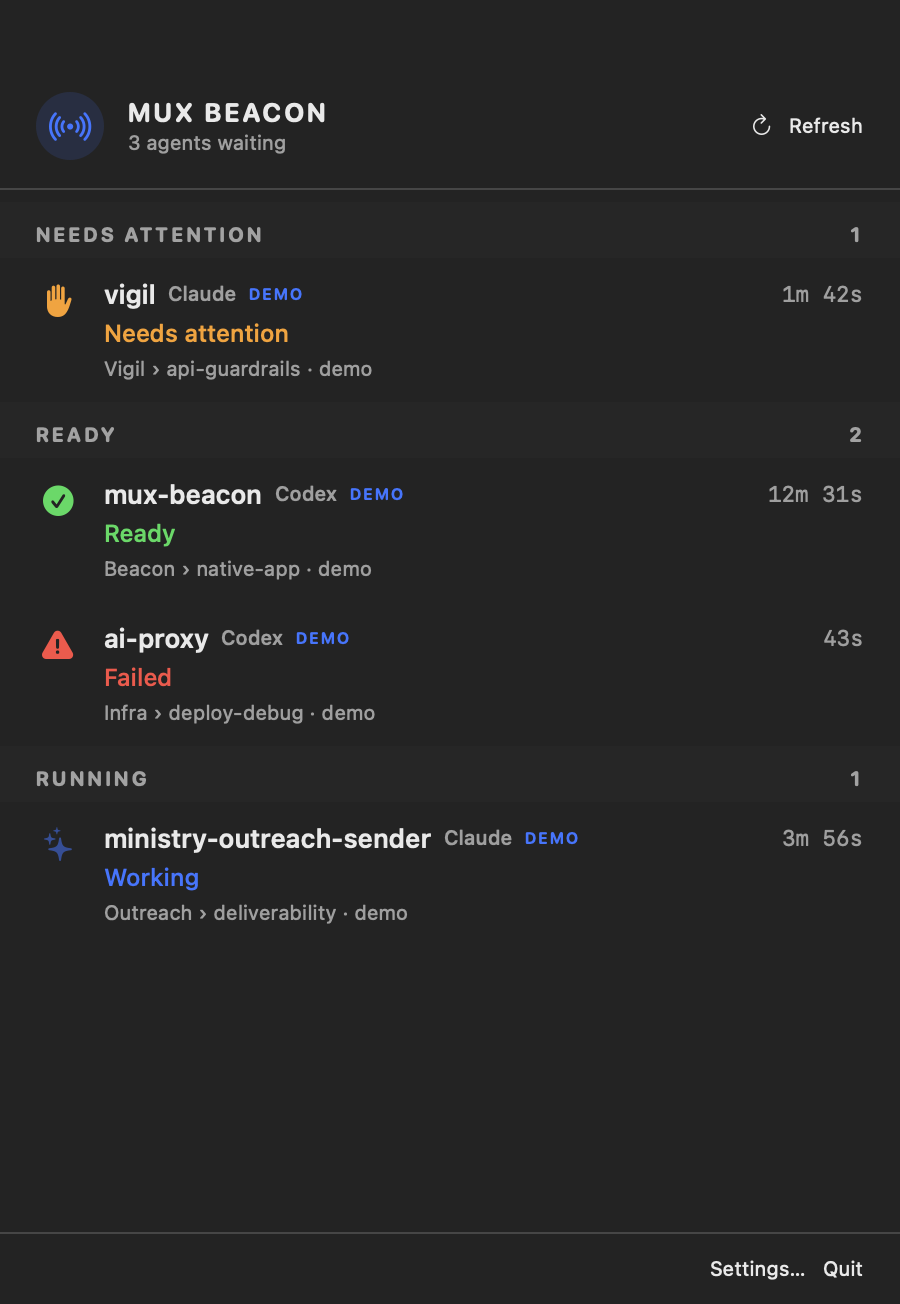
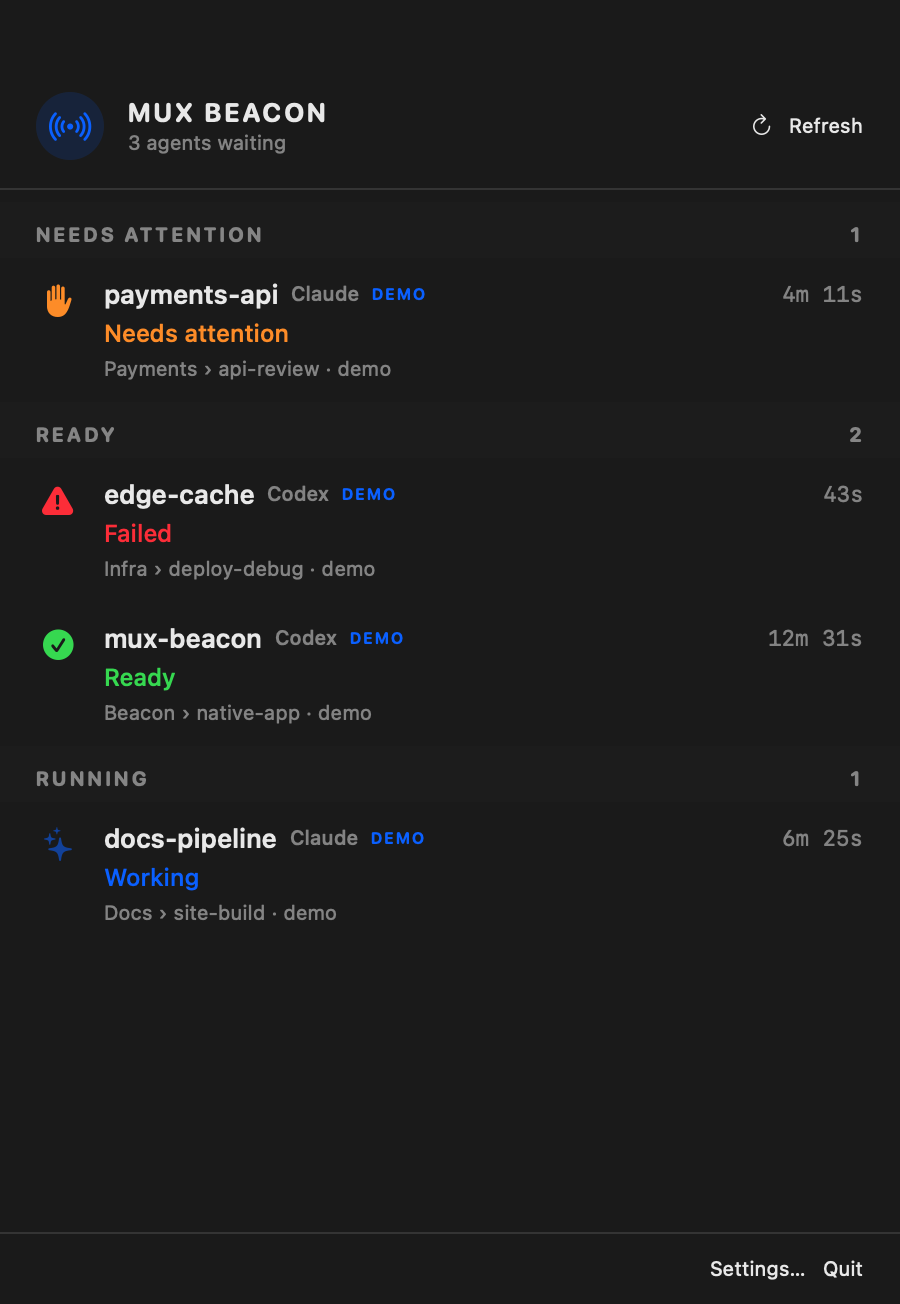
Anonymize demo data and prepare 0.2.0 release
- Replace real project names in the demo seeder and self-test fixtures
  with fictional ones, and regenerate both documentation screenshots
  from a scratch data home.
- Capture screenshots at a fixed 2x scale and fix the settings capture's
  transparent titlebar band and cut-off form.
- Drain subprocess pipes while commands run instead of after exit.
- Stop double percent-decoding deep-link event IDs.
- Report the CLI version from a single BeaconVersion constant.
- Document the unsigned-release Gatekeeper caveat and roadmap, clarify
  the dry-run install step, and date the 0.2.0 changelog entry.

diff --git a/Sources/MuxBeaconApp/AppDelegate.swift b/Sources/MuxBeaconApp/AppDelegate.swift
@@ -96,7 +96,7 @@ final class AppDelegate: NSObject, NSApplicationDelegate, NSWindowDelegate, UNUs
         }
         let model = BeaconAppModel.shared
         let settingsMode = ProcessInfo.processInfo.environment["MUX_BEACON_SCREENSHOT_VIEW"] == "settings"
-        let size = settingsMode ? NSSize(width: 520, height: 520) : NSSize(width: 450, height: 620)
+        let size = settingsMode ? NSSize(width: 540, height: 960) : NSSize(width: 450, height: 620)
         let rootView = settingsMode
             ? AnyView(BeaconSettingsView().frame(width: size.width, height: size.height))
             : AnyView(BeaconPanel(
@@ -106,9 +106,13 @@ final class AppDelegate: NSObject, NSApplicationDelegate, NSWindowDelegate, UNUs
                 openSettings: { [weak self] in self?.openSettingsWindow() }
             ).frame(width: size.width, height: size.height))
         let controller = NSHostingController(rootView: rootView)
+        // The settings form paints no material of its own, so the under-titlebar
+        // region of a full-size content view captures as a transparent band.
+        var styleMask: NSWindow.StyleMask = [.titled, .closable, .miniaturizable, .resizable]
+        if !settingsMode { styleMask.insert(.fullSizeContentView) }
         let window = NSWindow(
             contentRect: NSRect(origin: .zero, size: size),
-            styleMask: [.titled, .closable, .miniaturizable, .resizable, .fullSizeContentView],
+            styleMask: styleMask,
             backing: .buffered,
             defer: false
         )
@@ -158,7 +162,22 @@ final class AppDelegate: NSObject, NSApplicationDelegate, NSWindowDelegate, UNUs
     private func capture(window: NSWindow, outputPath: String) {
         guard let view = window.contentView else { return }
         let bounds = view.bounds
-        guard let representation = view.bitmapImageRepForCachingDisplay(in: bounds) else { return }
+        // Render at a fixed 2x so screenshots are identical regardless of the
+        // backing scale of whichever screen the window landed on.
+        let scale: CGFloat = 2
+        guard let representation = NSBitmapImageRep(
+            bitmapDataPlanes: nil,
+            pixelsWide: Int(bounds.width * scale),
+            pixelsHigh: Int(bounds.height * scale),
+            bitsPerSample: 8,
+            samplesPerPixel: 4,
+            hasAlpha: true,
+            isPlanar: false,
+            colorSpaceName: .calibratedRGB,
+            bytesPerRow: 0,
+            bitsPerPixel: 0
+        ) else { return }
+        representation.size = bounds.size
         view.cacheDisplay(in: bounds, to: representation)
         guard let data = representation.representation(using: .png, properties: [:]) else { return }
         do {
@@ -183,8 +202,8 @@ final class AppDelegate: NSObject, NSApplicationDelegate, NSWindowDelegate, UNUs
             return
         }
         guard url.host == "event" else { return }
+        // URL.pathComponents already percent-decodes; decoding again corrupts IDs containing "%".
         let eventID = url.pathComponents.dropFirst().joined(separator: "/")
-            .removingPercentEncoding ?? ""
         guard !eventID.isEmpty else { return }
         do {
             let store = EventStore()

diff --git a/Sources/MuxBeaconCore/SystemIntegration.swift b/Sources/MuxBeaconCore/SystemIntegration.swift
@@ -30,6 +30,23 @@ public enum ProcessRunner {
         let stderr = Pipe()
         process.standardOutput = stdout
         process.standardError = stderr
+
+        // Drain both pipes while the child runs; reading after exit deadlocks
+        // once a child fills the 64 KB pipe buffer.
+        var stdoutData = Data()
+        var stderrData = Data()
+        let readers = DispatchGroup()
+        readers.enter()
+        DispatchQueue.global().async {
+            stdoutData = stdout.fileHandleForReading.readDataToEndOfFile()
+            readers.leave()
+        }
+        readers.enter()
+        DispatchQueue.global().async {
+            stderrData = stderr.fileHandleForReading.readDataToEndOfFile()
+            readers.leave()
+        }
+
         try process.run()
         if let timeout {
             let deadline = Date().addingTimeInterval(timeout)
@@ -37,16 +54,18 @@ public enum ProcessRunner {
             if process.isRunning {
                 process.terminate()
                 process.waitUntilExit()
+                readers.wait()
                 throw ProcessRunnerError.timedOut(executable)
             }
         } else {
             process.waitUntilExit()
         }
+        readers.wait()
         return CommandResult(
             status: process.terminationStatus,
-            stdout: String(decoding: stdout.fileHandleForReading.readDataToEndOfFile(), as: UTF8.self)
+            stdout: String(decoding: stdoutData, as: UTF8.self)
                 .trimmingCharacters(in: .whitespacesAndNewlines),
-            stderr: String(decoding: stderr.fileHandleForReading.readDataToEndOfFile(), as: UTF8.self)
+            stderr: String(decoding: stderrData, as: UTF8.self)
                 .trimmingCharacters(in: .whitespacesAndNewlines)
         )
     }

diff --git a/Sources/MuxBeaconSelfTest/main.swift b/Sources/MuxBeaconSelfTest/main.swift
@@ -68,18 +68,18 @@ struct MuxBeaconSelfTest {
 
     private static func testRouteLabel() throws {
         let tmux = TmuxTarget(
-            socketPath: "/tmp/tmux", sessionID: "$1", sessionName: "Vigil",
-            windowID: "@7", windowIndex: 7, windowName: "AINotifier",
+            socketPath: "/tmp/tmux", sessionID: "$1", sessionName: "Atlas",
+            windowID: "@7", windowIndex: 7, windowName: "agents",
             paneID: "%2", paneIndex: 2, paneTitle: "agent", panePath: "/tmp"
         )
         let event = AgentEvent(
             id: "route", source: .codex, sessionID: "session", state: .ready,
             hookEventName: "Stop", cwd: "/tmp", projectName: "project", tmux: tmux
         )
-        try expect(event.routeLabel == "Vigil › AINotifier" && !event.routeLabel.contains("pane"))
+        try expect(event.routeLabel == "Atlas › agents" && !event.routeLabel.contains("pane"))
         var demo = event
         demo.isDemo = true
-        try expect(demo.routeLabel == "Vigil › AINotifier · demo")
+        try expect(demo.routeLabel == "Atlas › agents · demo")
         do {
             try TargetRouter.jump(to: demo)
             throw SelfTestError.failedExpectation
@@ -133,7 +133,7 @@ struct MuxBeaconSelfTest {
         let (directory, store) = try temporaryStore()
         defer { try? FileManager.default.removeItem(at: directory) }
         let target = TmuxTarget(
-            socketPath: "/tmp/tmux", sessionID: "$1", sessionName: "Vigil",
+            socketPath: "/tmp/tmux", sessionID: "$1", sessionName: "Atlas",
             windowID: "@1", windowIndex: 1, windowName: "agents",
             paneID: "%1", paneIndex: 0, paneTitle: "agent", panePath: "/tmp"
         )

diff --git a/Sources/MuxBeaconCore/Preferences.swift b/Sources/MuxBeaconCore/Preferences.swift
@@ -73,10 +73,10 @@ public enum DemoSeeder {
     public static func seed(store: EventStore, now: Date = Date()) throws -> [AgentEvent] {
         try store.deleteDemoEvents()
         let samples: [(AgentSource, AgentState, String, TimeInterval, String, Int, String, Int)] = [
-            (.claude, .needsAttention, "vigil", 94, "Vigil", 3, "api-guardrails", 1),
+            (.claude, .needsAttention, "payments-api", 94, "Payments", 3, "api-review", 1),
             (.codex, .ready, "mux-beacon", 751, "Beacon", 1, "native-app", 0),
-            (.claude, .working, "ministry-outreach-sender", 228, "Outreach", 7, "deliverability", 0),
-            (.codex, .failed, "ai-proxy", 43, "Infra", 2, "deploy-debug", 2),
+            (.claude, .working, "docs-pipeline", 228, "Docs", 7, "site-build", 0),
+            (.codex, .failed, "edge-cache", 43, "Infra", 2, "deploy-debug", 2),
         ]
         return try samples.enumerated().map { index, sample in
             let started = now.addingTimeInterval(-sample.3)

diff --git a/Sources/MuxBeaconApp/BeaconSettingsView.swift b/Sources/MuxBeaconApp/BeaconSettingsView.swift
@@ -68,7 +68,8 @@ struct BeaconSettingsView: View {
         }
         .formStyle(.grouped)
         .padding()
-        .frame(width: 520, height: 520)
+        .frame(minWidth: 500, minHeight: 500)
+        .background(Color(nsColor: .windowBackgroundColor))
         .alert("Could not update login item", isPresented: Binding(
             get: { launchError != nil },
             set: { if !$0 { launchError = nil } }

diff --git a/Sources/MuxBeaconCLI/main.swift b/Sources/MuxBeaconCLI/main.swift
@@ -49,7 +49,7 @@ struct MuxBeaconCLI {
             case "help", "--help", "-h":
                 printHelp()
             case "version", "--version", "-v":
-                print("mux-beacon 0.2.0")
+                print("mux-beacon \(BeaconVersion.current)")
             default:
                 throw CLIError.usage("Unknown command: \(command)")
             }

diff --git a/Sources/MuxBeaconCore/Models.swift b/Sources/MuxBeaconCore/Models.swift
@@ -1,5 +1,11 @@
 import Foundation
 
+/// Single source of truth for the CLI-reported version.
+/// Keep Packaging/Info.plist's CFBundleShortVersionString and CHANGELOG.md in sync.
+public enum BeaconVersion {
+    public static let current = "0.2.0"
+}
+
 public enum AgentSource: String, Codable, CaseIterable, Sendable {
     case claude
     case codex

diff --git a/README.md b/README.md
@@ -28,7 +28,7 @@ prompt submitted → working → ready / failed
 
 - macOS 13 or newer
 - tmux 3.2 or newer
-- Claude Code with hooks, or Codex CLI with hooks and its completion callback
+- A recent Claude Code with lifecycle hooks (including `StopFailure`), or Codex CLI with hooks and its completion callback
 - Ghostty 1.3+ for exact window/tab focus; other terminals still receive the inbox and tmux metadata
 
 ## Install locally
@@ -37,13 +37,13 @@ prompt submitted → working → ready / failed
 git clone https://github.com/Lukeesec/mux-beacon.git
 cd mux-beacon
 ./scripts/install-local.sh
-mux-beacon install
-mux-beacon install --apply
+mux-beacon install          # dry run: preview the hook changes
+mux-beacon install --apply  # write them
 ```
 
 The app installs into `/Applications` when writable, otherwise `~/Applications`, and registers with Launch Services. Finder can open it directly; `mux-beacon gui` is the reliable launcher for local ad-hoc builds that Spotlight has not indexed yet.
 
-The first `install` is a dry run. Applying the installation:
+Applying the installation:
 
 - adds owned handlers to `~/.claude/settings.json`;
 - adds owned handlers to `~/.codex/hooks.json`;
@@ -174,6 +174,10 @@ The inbox checks target health every 30 seconds and whenever **Refresh** is clic
 
 See [Architecture](docs/ARCHITECTURE.md), [Development](docs/DEVELOPMENT.md), and [Troubleshooting](docs/TROUBLESHOOTING.md).
 
+## Prebuilt releases
+
+Tagged releases attach an app zip built by CI. It is ad-hoc signed and not notarized, so macOS blocks the first launch of a downloaded copy: approve it under **System Settings → Privacy & Security → Open Anyway**, or build from source as shown above (local builds are not quarantined).
+
 ## Privacy and security
 
 - Local-only SQLite database; no telemetry.
@@ -181,6 +185,11 @@ See [Architecture](docs/ARCHITECTURE.md), [Development](docs/DEVELOPMENT.md), an
 - No approval or denial actions from notifications.
 - Opaque event IDs in notification metadata; no shell commands or tmux labels in URLs.
 - Hook commands return success without steering the agent.
+
+## Roadmap
+
+- Developer ID signing and notarization for release builds, so downloads pass Gatekeeper without manual approval.
+- Clockify export adapter on the existing provider boundary ([design](docs/CLOCKIFY.md)).
 
 ## License
 

diff --git a/docs/DEVELOPMENT.md b/docs/DEVELOPMENT.md
@@ -9,7 +9,7 @@ swift run mux-beacon-self-test
 codesign --verify --deep --strict "dist/Mux Beacon.app"
 ```
 
-This machine's standalone Command Line Tools distribution does not ship XCTest or Swift Testing modules, so the repository includes a dependency-free self-test executable. It validates provider fixtures, state persistence, duration, installer idempotency/uninstall, and export escaping.
+The self-test executable is dependency-free so it also runs on standalone Command Line Tools installs, which do not ship XCTest or Swift Testing. It validates provider fixtures, state persistence, duration, installer idempotency/uninstall, and export escaping.
 
 ## Deterministic UI data
 
@@ -25,13 +25,7 @@ MUX_BEACON_SCREENSHOT_PATH="$PWD/docs/assets/mux-beacon-inbox.png" \
 "dist/Mux Beacon.app/Contents/MacOS/MuxBeaconApp" --screenshot
 ```
 
-The app snapshots only its own content view.
-
-## Visual thesis
-
-Mux Beacon is a calm native instrument panel: graphite material, crisp operational typography, a single blue brand accent, and semantic state color only where it speeds scanning.
-
-The working surface leads. Motion is limited to working-state breathing, event insertion/removal, and the tmux target flash, all respecting Reduce Motion.
+The app snapshots only its own content view. Use `MUX_BEACON_HOME` to point the app at a scratch data directory so screenshots never include real events.
 
 ## Release signing
 

diff --git a/CHANGELOG.md b/CHANGELOG.md
@@ -1,6 +1,6 @@
 # Changelog
 
-## 0.2.0 — Unreleased
+## 0.2.0 — 2026-08-12
 
 - Distinctive native app and notification icon.
 - Project-first notification hierarchy with native bold title treatment.
@@ -9,6 +9,9 @@
 - Persistent-alert guidance and improved Applications/Launch Services registration.
 - Reliable Codex completion delivery through its documented turn-complete callback.
 - Correct tmux badge formatting plus a `badge-status` diagnostic.
+- Fully fictional demo fixtures and regenerated documentation screenshots.
+- Subprocess output is drained while commands run, and deep-link event IDs are no longer double-decoded.
+- Documented the unsigned-release Gatekeeper caveat and the signing/notarization roadmap.
 
 ## 0.1.0 — 2026-08-11
 
